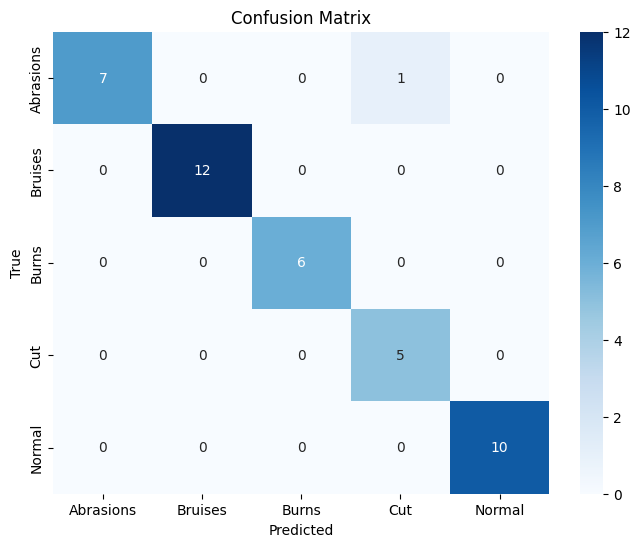
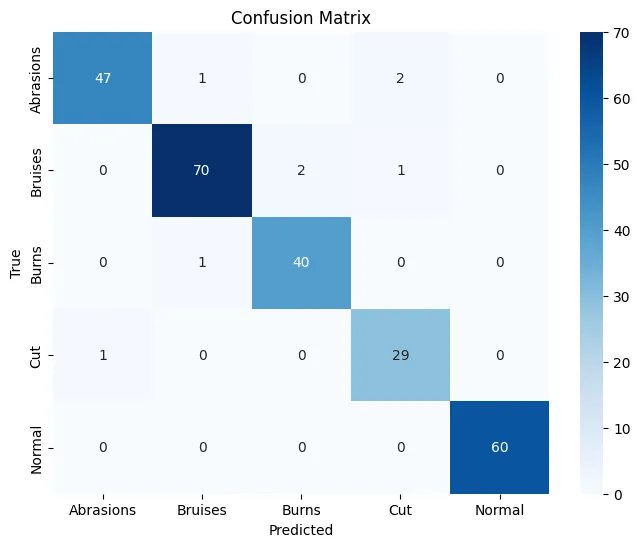
update code

diff --git a/README.md b/README.md
@@ -1,52 +1,76 @@
-write me README in export README.md with out emoji
-
-"""
-
 # Surgicare
 
-> **Surgicare (Surgical + Care)**  
-> <img src="app_logo.png" width="250">
+> **Surgicare (Surgical + Care)**
+
+<img src="app_logo.png" width="250">
 
 SurgiCare is an AI system designed to support post-surgery patient recovery. In this repository, we focus on a wound classification model trained on an open-source dataset. Our objective is to improve the accuracy of wound detection and guide patients in managing their wound recovery efficiently.
 
-- **Wound Dataset**: [https://www.kaggle.com/datasets/ibrahimfateen/wound-classification](https://www.kaggle.com/datasets/ibrahimfateen/wound-classification)
----
-"""
+## Dataset
 
-medium log is here: https://medium.com/@naphatsorn.contact/surgicare-ai-builder-undone-676a0865f57c
-demo is here: https://surgicare-alb-demo.streamlit.app/
+**Wound Dataset**: [https://www.kaggle.com/datasets/ibrahimfateen/wound-classification](https://www.kaggle.com/datasets/ibrahimfateen/wound-classification)
 
-dataset plot before: finetune/dataset_before.png
-dataset plot after: finetune/dataset_after.png
-confuse matrix: finetune/cfm.png
+## Demo and Documentation
 
-Classification Report:
+- **Medium Article**: [SurgiCare: AI Builder Undone](https://medium.com/@naphatsorn.contact/surgicare-ai-builder-undone-676a0865f57c)
+- **Live Demo**: [https://surgicare-alb-demo.streamlit.app/](https://surgicare-alb-demo.streamlit.app/)
+
+## Model Performance
+
+### Dataset Analysis
+- **Dataset Distribution (Before)**: `finetune/dataset_before.png`
+- **Dataset Distribution (After)**: `finetune/dataset_after.png`
+- **Confusion Matrix**: `finetune/cfm.png`
+
+### Classification Results
+
+#### Overall Classification Report
+```
               precision    recall  f1-score   support
+   Abrasions       0.98      0.94      0.96        50
+     Bruises       0.97      0.96      0.97        73
+       Burns       0.95      0.98      0.96        41
+         Cut       0.91      0.97      0.94        30
+      Normal       1.00      1.00      1.00        60
 
-   Abrasions       1.00      0.88      0.93         8
-     Bruises       1.00      1.00      1.00        12
-       Burns       1.00      1.00      1.00         6
-         Cut       0.83      1.00      0.91         5
-      Normal       1.00      1.00      1.00        10
+    accuracy                           0.97       254
+   macro avg       0.96      0.97      0.96       254
+weighted avg       0.97      0.97      0.97       254
+```
 
-    accuracy                           0.98        41
-   macro avg       0.97      0.97      0.97        41
-weighted avg       0.98      0.98      0.98        41
+#### Class-wise Accuracy
+- **Abrasions**: 94.00%
+- **Bruises**: 95.89%
+- **Burns**: 97.56%
+- **Cut**: 96.67%
+- **Normal**: 100.00%
 
-Accuracy for class 'Abrasions': 87.50%
-Accuracy for class 'Bruises': 100.00%
-Accuracy for class 'Burns': 100.00%
-Accuracy for class 'Cut': 100.00%
-Accuracy for class 'Normal': 100.00%
-Fold 2 Accuracy: 0.9756
+### Cross-Validation Results
 
-Summary:
-Fold 1 - Accuracy: 0.9468, F1: 0.9426
-Fold 2 - Accuracy: 0.9681, F1: 0.9530
-Fold 3 - Accuracy: 0.9362, F1: 0.9252
-Fold 4 - Accuracy: 0.9149, F1: 0.8954
-Fold 5 - Accuracy: 0.9149, F1: 0.8948
+#### 5-Fold Cross-Validation Summary
+| Fold | Accuracy | F1-Score |
+|------|----------|----------|
+| 1    | 0.9291   | 0.9184   |
+| 2    | 0.9488   | 0.9425   |
+| 3    | 0.9567   | 0.9184   |
+| 4    | 0.9449   | 0.9184   |
+| 5    | 0.9685   | 0.9419   |
 
-Avg Accuracy: 0.9362 | Avg F1: 0.9222
-CPU times: user 33min 12s, sys: 1min 13s, total: 34min 26s
-Wall time: 27min 6s
+**Average Performance**:
+- **Average Accuracy**: 0.9496 (94.96%)
+- **Average F1-Score**: 0.9419 (94.19%)
+
+## Getting Started
+
+1. Clone the repository
+2. Install required dependencies
+3. Access the live demo at the provided Streamlit link
+4. For detailed implementation, refer to the Medium article
+
+## Contributing
+
+We welcome contributions to improve SurgiCare's wound classification accuracy and expand its capabilities for post-surgery patient care.
+
+## License
+
+This project uses an open-source wound classification dataset from Kaggle. Please refer to the dataset's licensing terms for usage guidelines.
